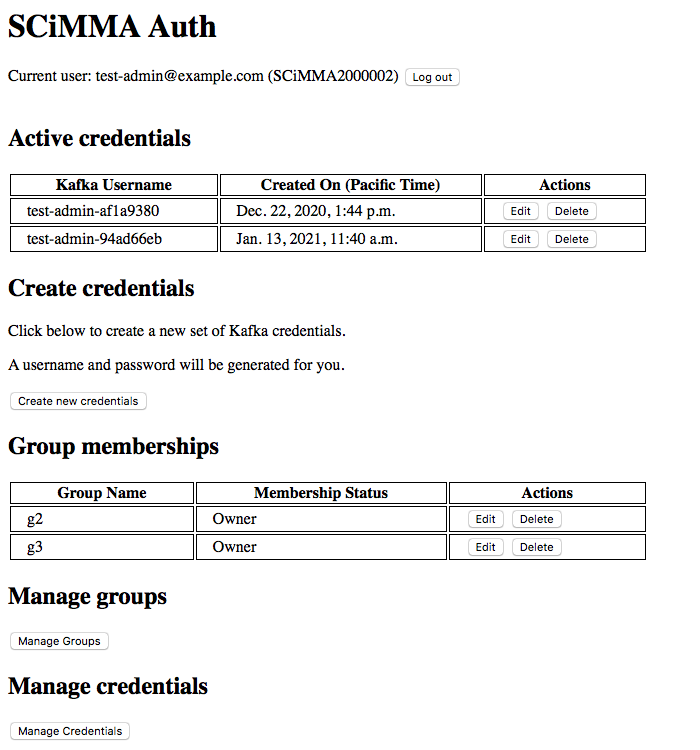
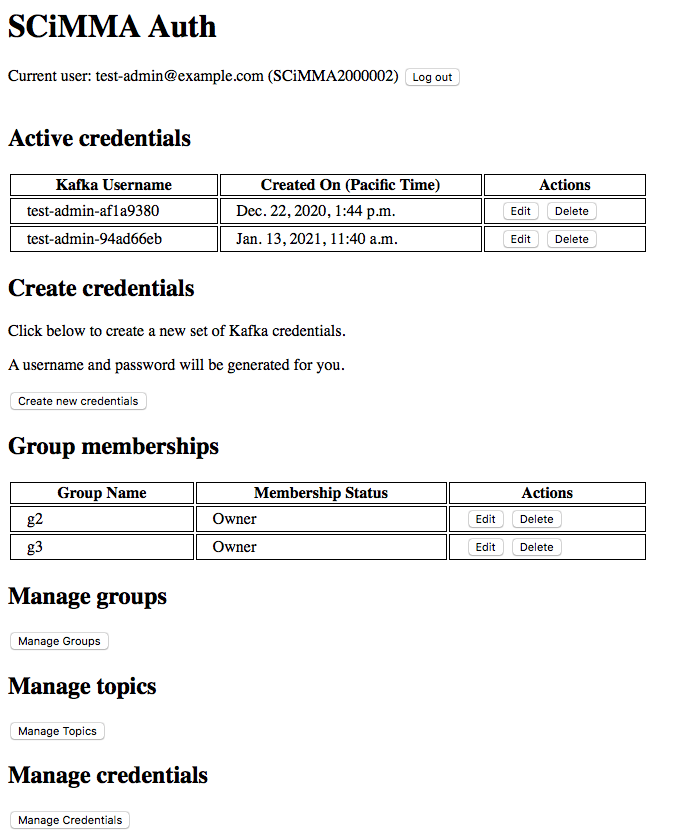
Add a global topic management shortcut page

diff --git a/scimma_admin/hopskotch_auth/templates/hopskotch_auth/topic_management.html b/scimma_admin/hopskotch_auth/templates/hopskotch_auth/topic_management.html
@@ -1,0 +1,35 @@
+{% extends "hopskotch_auth/base.html" %}
+
+{% block page-header %}<a href="{% url 'index' %}">SCiMMA Auth</a>: Topic management{% endblock %}
+
+{% block page-body %}
+        <section class="topics-list">
+            <h2>Existing Topics</h2>
+            <table>
+                <thead>
+                    <colgroup>
+                        <col id="topic-owner">
+                        <col id="topic-name">
+                    </colgroup>
+                    <tr>
+                        <th>Owning Group</th>
+                        <th>Name</th>
+                    </tr>
+                </thead>
+                <tbody>
+                    {% regroup topics by owning_group as owner_list %}
+                    {% for owning_group, topics in owner_list %}
+                    {% for topic in topics %}
+                    <tr>
+                        {% if forloop.first %} 
+                        <td rowspan="{{ topics|length }}"><a href="{% url 'edit_group' %}?group_id={{ owning_group.id }}">{{ owning_group.name }}</a></td>
+                        {% endif %}
+                        <td><a href="{% url 'edit_topic' %}?topic_id={{ topic.id }}">{{ topic.name }}</a></td>
+                    </tr>
+                    {% endfor %}
+                    {% endfor %}
+                </tbody>
+            </table>
+        </section>
+        
+{% endblock %}

diff --git a/scimma_admin/hopskotch_auth/templates/hopskotch_auth/index.html b/scimma_admin/hopskotch_auth/templates/hopskotch_auth/index.html
@@ -119,6 +119,12 @@
           <input type="submit" value="Manage Groups">
       </form>
     </section>
+    <section class="topic-management">
+      <h2>Manage topics</h2>
+      <form action="{% url 'topic_management' %}" method="get">
+          <input type="submit" value="Manage Topics">
+      </form>
+    </section>
     <section class="cred-management">
       <h2>Manage credentials</h2>
       <form action="{% url 'credential_management' %}" method="get">

diff --git a/scimma_admin/hopskotch_auth/views.py b/scimma_admin/hopskotch_auth/views.py
@@ -217,6 +217,23 @@ def delete_group(request):
 
 
 @login_required
+def topic_management(request):
+    logger.info(f"User {request.user.username} ({request.user.email}) requested "
+                f"the global topic management page from {request.META['REMOTE_ADDR']}")
+
+    # only staff can manage all topics
+    if not request.user.is_staff:
+        return redirect_with_error(request, "Access the topic management page",
+                                   "User is not a staff member", "index")
+    topics=list(KafkaTopic.objects.all().select_related("owning_group"))
+    topics.sort(key=lambda topic: topic.owning_group.name)
+    return render(
+        request, 'hopskotch_auth/topic_management.html',
+        dict(topics=topics)
+    )
+
+
+@login_required
 def credential_management(request):
     logger.info(f"User {request.user.username} ({request.user.email}) requested "
                 f"the global credential management page from {request.META['REMOTE_ADDR']}")

diff --git a/scimma_admin/hopskotch_auth/urls.py b/scimma_admin/hopskotch_auth/urls.py
@@ -14,6 +14,7 @@ urlpatterns = [
     path("create_group", views.create_group, name="create_group"),
     path("edit_group", views.edit_group, name="edit_group"),
     path("delete_group", views.delete_group, name="delete_group"),
+    path("topic_management", views.topic_management, name="topic_management"),
     path("credential_management", views.credential_management, name="credential_management"),
     path("change_membership_status", views.change_membership_status, name="change_membership_status"),
     path("remove_user", views.remove_user, name="remove_user"),

diff --git a/doc/hopauth_guide.md b/doc/hopauth_guide.md
@@ -31,7 +31,8 @@ Hopskotch itself is intended to be accessed programmatically, so it uses additio
    7. [Granting Other Groups Access to Topics](#granting-other-groups-access-to-topics)
 3. [Hopauth for Administrators](#hopauth-for-ddministrators)
    1. [Creating Groups](#creating-groups)
-   2. [Viewing and Suspending Credentials](#viewing-and-suspending-credentials)
+   2. [Viewing Topics](#viewing-topics)
+   3. [Viewing and Suspending Credentials](#viewing-and-suspending-credentials)
 
 ## Hopskotch Concepts
 
@@ -156,6 +157,12 @@ Administrative group management is accessed via the 'Manage Groups' button on th
 From this page it is possible to see a complete list of all groups which currently exist, and to edit or delete each. Finally, at the bottom of the page is the group creation form, which requires only the name of the new group to be created. Group names must be unique and are limited to 256 characters. 
 
 After creating a new group, you will be automatically sent to the group's management page, which is the same as for other users. Administrators, however, automatically have the same capabilities to manage within a group as owners of the group. Since a newly created group has no owners, it is advisable that the admin who creates it should add at least one user to it as an owner, who will then be able to add other owners and regular members as needed. Otherwise, all members and topics for the group will have to be added by administrators. 
+
+### Viewing Topics
+
+Administrators can manage any topic via the owning group's management page. However, this is not convenient when the owning group is not known ahead of time. For this purpose, the administrator topic management page is provided, which simply contains a listing of all topics and the groups which own them, with links to manage either. This page is reached from the 'Manage Topics' button on the main page. 
+
+[![The admin topic management page, which lists all groups' topics](hopauth_screenshots/admin_topic_management.png)](hopauth_screenshots/admin_topic_management.png)
 
 ### Viewing and Suspending Credentials
 
